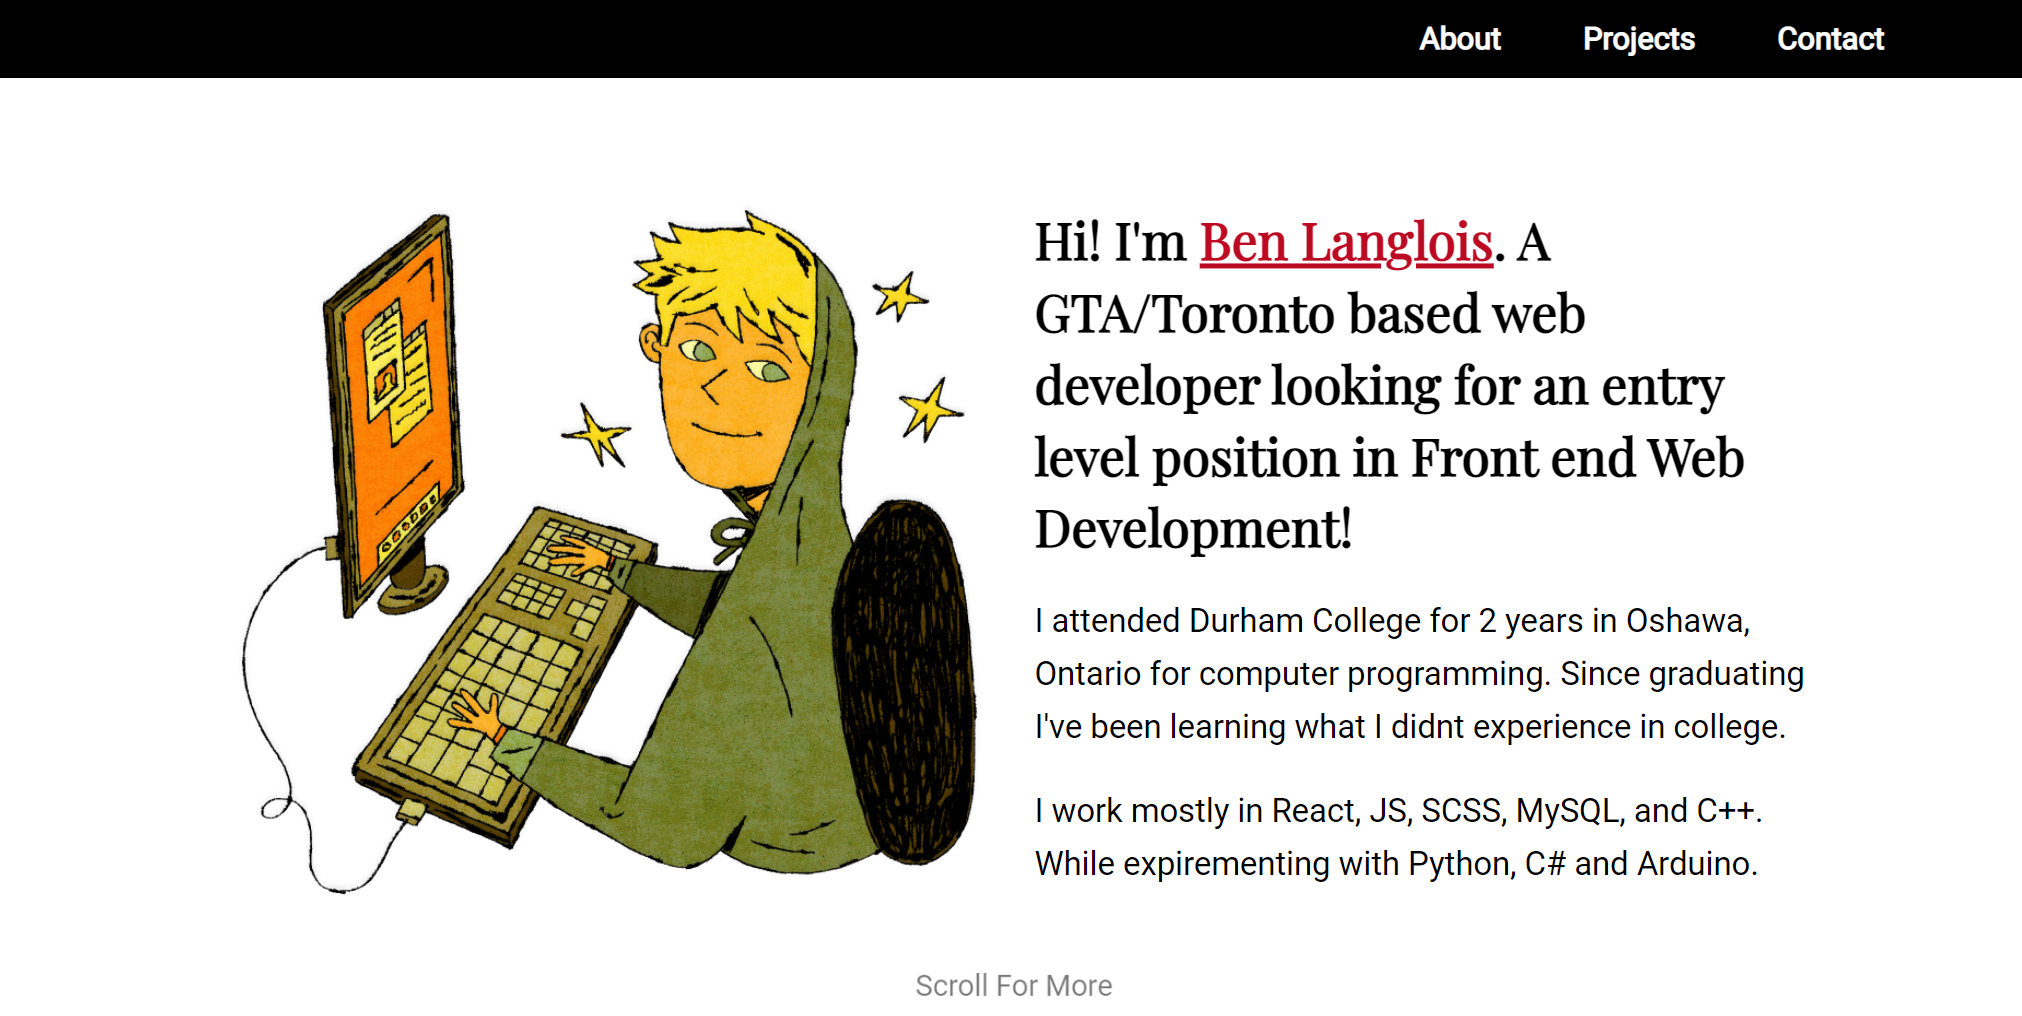
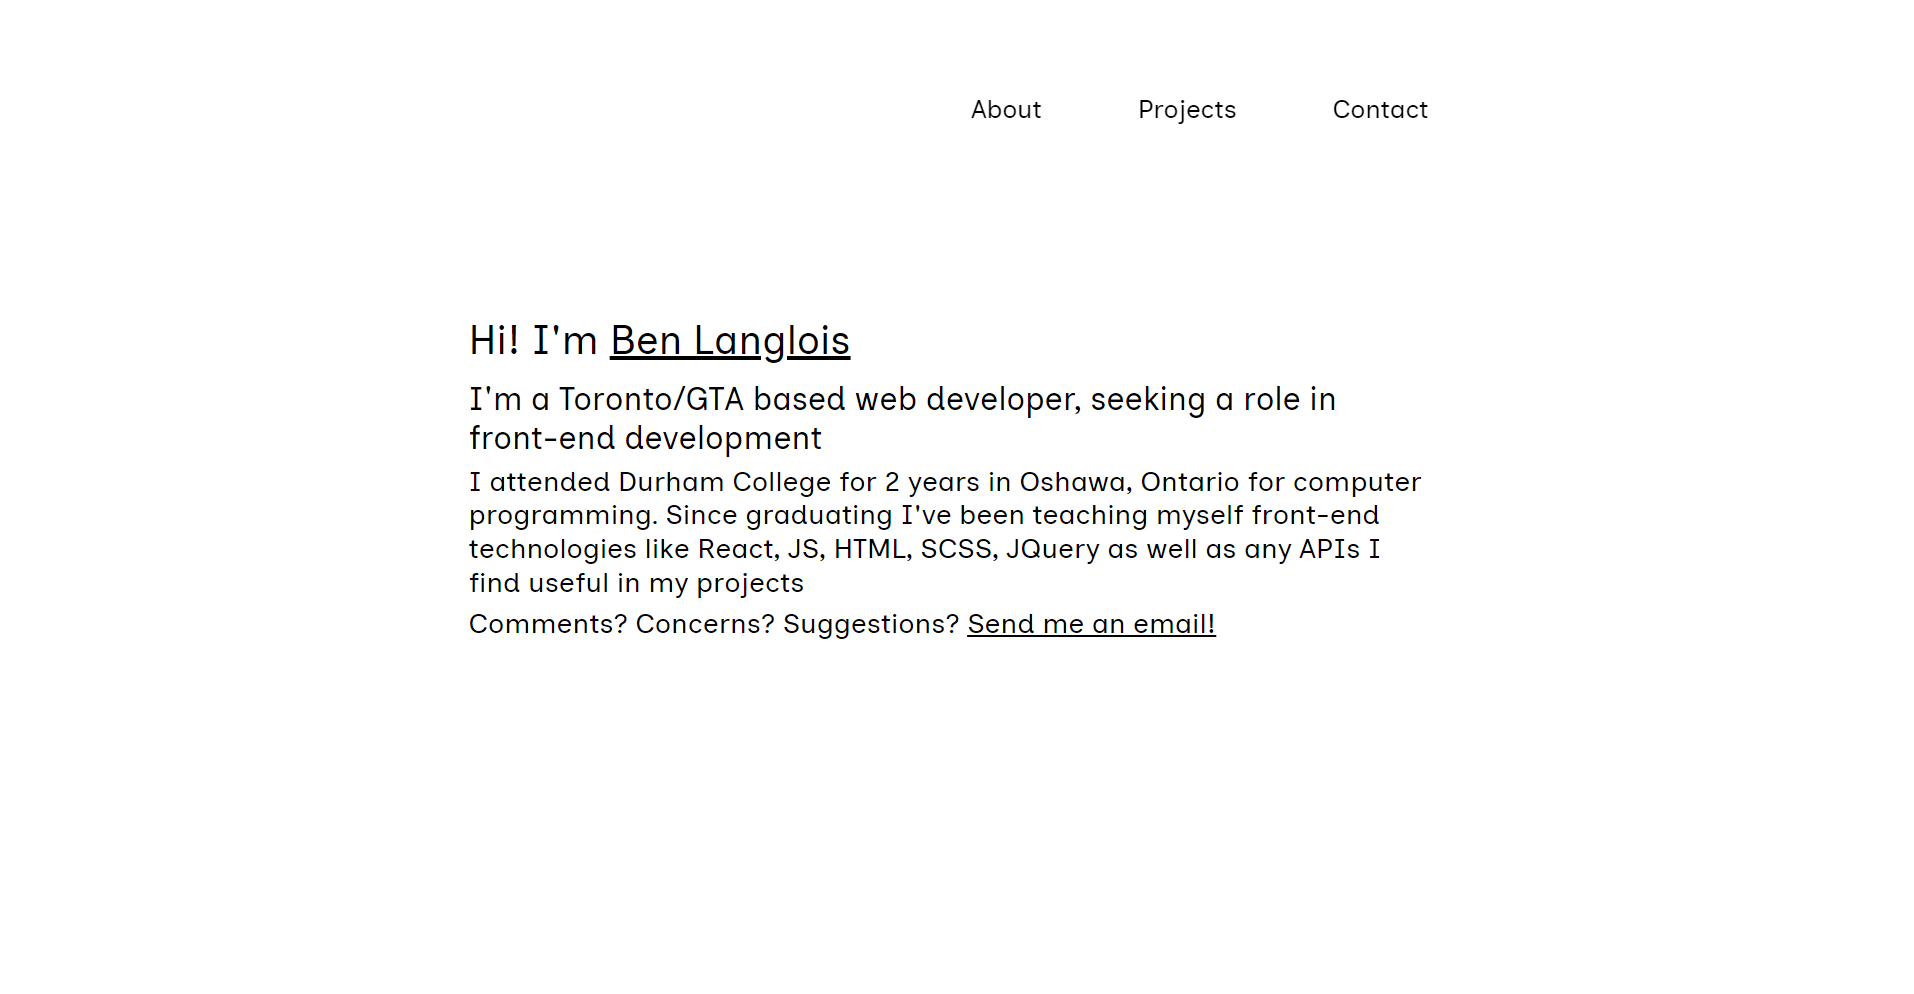
touches to responsiveness, changed bio, updated project images

diff --git a/portfolio/src/App.js b/portfolio/src/App.js
@@ -14,6 +14,7 @@ import {Helmet} from "react-helmet";
 import portfolio from './images/projects/portfolio.png'
 import labtimer from './images/projects/labtimer.png'
 import noteapp from './images/projects/noteapp.png'
+import weatherapp from './images/projects/weatherapp.png'
 
 // socials
 // import codepen from './images/socials/codepen-square-svgrepo-com.svg'
@@ -36,8 +37,7 @@ import github from './images/socials/iconmonstr-github-3.svg'
 
 
 /*
-
-
+  Example of project object
   {
     name: 'Portfolio',
     desc: 'The page you are looking at right now. Made with React, SASS, and a tad of bootstrap. Constantly developing',
@@ -62,7 +62,7 @@ const projectsObj = [
     url: 'https://ben-langlois.github.io/',
     img: portfolio,
     alt: 'Portfolio Homepage',
-    diff: 3,
+    diff: 4,
     date: new Date('September 30, 2023 00:00:00'),
     links:[
       {
@@ -77,7 +77,7 @@ const projectsObj = [
     url: 'https://codepen.io/ben-langlois/details/wvqKwRL',
     img: labtimer,
     alt: 'Labtimer Homepage',
-    diff: 4,
+    diff: 3,
     date: new Date('Febreary 11, 2022 00:00:00'),
     links:[
     ] 
@@ -97,8 +97,8 @@ const projectsObj = [
   {
     name: 'Weather App',
     desc: 'A React app utilizing bootstrap and APIs to create a weather dashboard. Displays weekly and daily weather for inputted city.',
-    url: '',
-    img: labtimer,
+    url: '#',
+    img: weatherapp,
     alt: 'Weather App Dashboard',
     diff: 5,
     date: new Date('March 1, 2023 00:00:00'),
@@ -163,20 +163,22 @@ const Landing = () => {
           <div>
             <h1>
               {/* Not in love with the font */}
-              Hi! I'm <u>Ben Langlois</u>
+              Hi! I'm <a href='https://www.linkedin.com/in/benjaminlanglois/'>Ben Langlois</a>
             </h1>
             <h2>
-              A GTA/Toronto based web developer, seeking a role 
+              I'm a Toronto/GTA based web developer, seeking a role 
               in front-end development
             </h2>
             <h3>
               I attended Durham College for 2 years in
               Oshawa, Ontario for computer programming.
-              Since graduating I've been learning what I
-              didnt experience in college.
-              I work mostly in React, JS, SCSS, MySQL,
-              and C++ while expirementing with Python,
-              C# and Arduino.
+              Since graduating I've been teaching myself
+              front-end technologies like React, JS, HTML,
+              SCSS, JQuery as well as any APIs I find useful
+              in my projects
+            </h3>
+            <h3>
+              Comments? Concerns? Suggestions? <a href='#contact'>Send me an email!</a>
             </h3>
           </div>  
         </div>
@@ -213,6 +215,7 @@ const Project = () => {
       $('#difficulty').removeClass('enabled');      
     }
   };
+
 
   return (
     <>

diff --git a/portfolio/src/styles/styles.scss b/portfolio/src/styles/styles.scss
@@ -119,6 +119,10 @@ html, body {
         div{
             height: auto;
 
+            a{
+                // text-decoration: none;
+                color: black;
+            }
             h1{
                 margin-bottom: 1rem;       
             }  
@@ -165,7 +169,7 @@ html, body {
             // new attempt
                 .card{
                     height: clamp(250px, 30vh, 600px);      // clamp (container is based on ind cards)
-                    width: clamp(350px, 25vw, 800px);       // clamp 
+                    width: clamp(350px, 25vw, 600px);       // clamp 
                     overflow: hidden;
                     transition: all 1s ease;
                     justify-items: center;
@@ -180,7 +184,7 @@ html, body {
                     img#project{
                         width: 100%;       // clamp 
                         height: 100%;
-                        object-fit: cover;
+                        object-fit: fill;
                         transition: all 1s ease;
                         z-index: 0;
                     }
@@ -268,6 +272,8 @@ html, body {
 
         #form{
             width: clamp(300px, 40%, 700px);      // clamp,
+            display: flex;
+            flex-flow: column;
 
             h2{
                 font-weight: bold;
@@ -279,6 +285,7 @@ html, body {
                 height: 100%;
                 display: flex;
                 flex-flow: column;
+                flex: 1 1 auto;
 
 
                input{
@@ -381,7 +388,7 @@ html, body {
 */
 
 /* Media Queries */
-@media (max-width: 600px) { // Mobile
+@media (max-width: 600px){ // Mobile
     #landing-container{
         grid-template-rows: 15vh 85vh auto;
         grid-template-columns: 100%;
@@ -669,7 +676,7 @@ html, body {
         }
 
         #about{
-            width: 80%;
+            width: 90%;
         }
 
         #projects{
